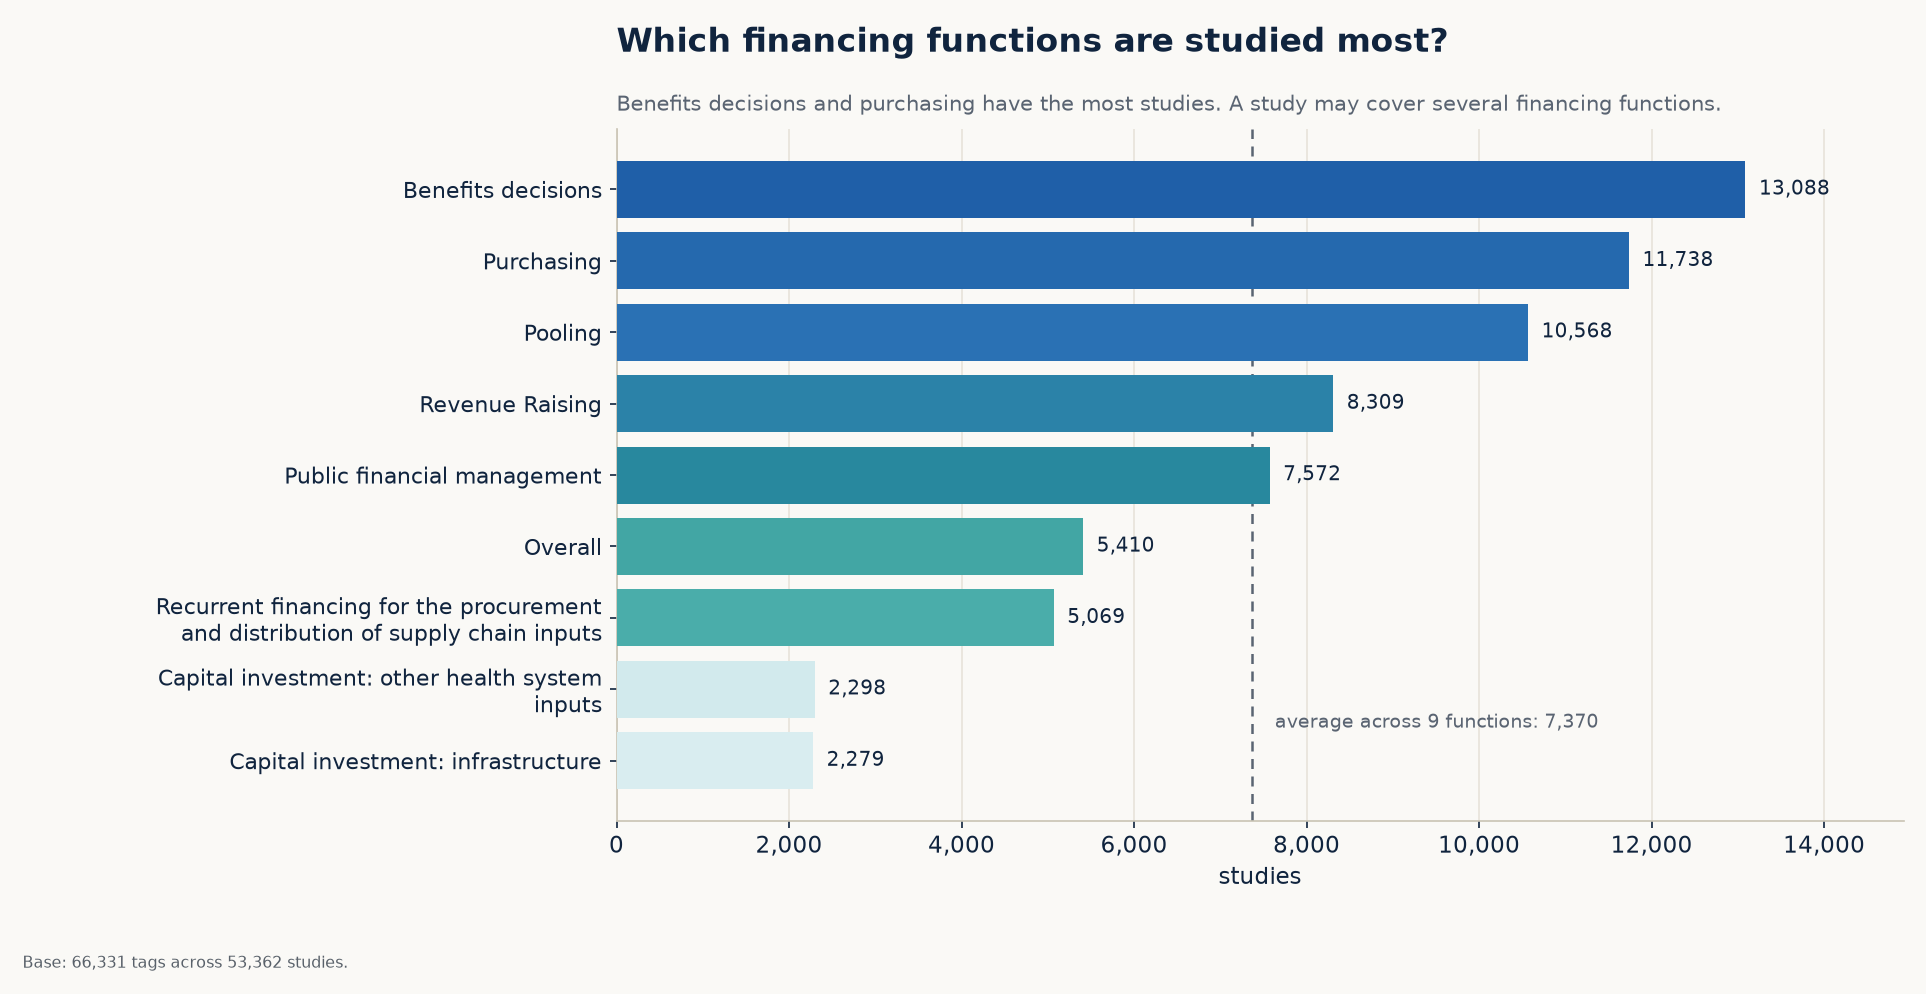
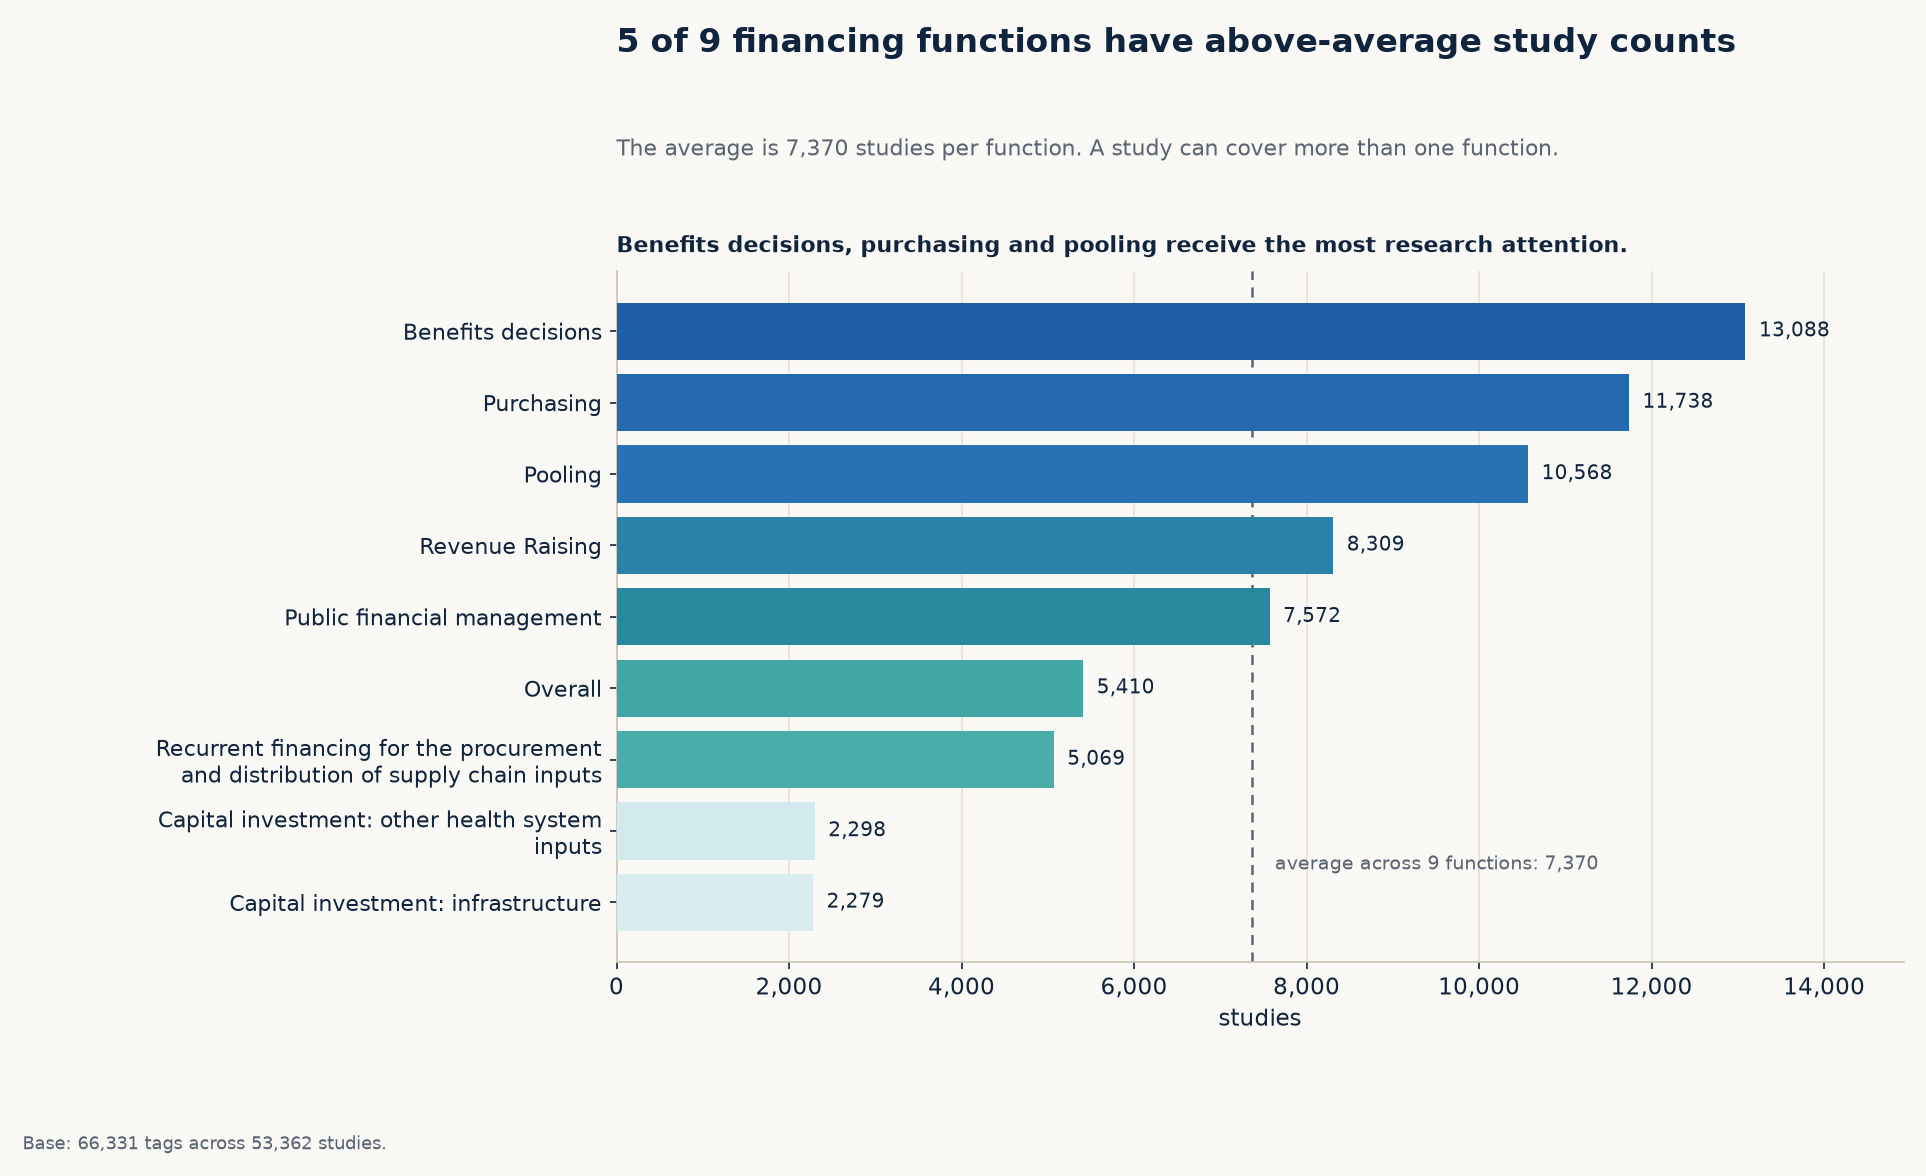
Clarify above-average financing function study counts

diff --git a/docs/dex_hff/build_figures_v2_4.py b/docs/dex_hff/build_figures_v2_4.py
@@ -787,10 +787,9 @@ ax.annotate(f"average across {len(func_counts)} functions: {mean_func:,.0f}",
             xy=(mean_func, 0.4), xytext=(mean_func + max(fvalues) * 0.02, 0.4),
             fontsize=9, color=SUBHEAD_COLOR, ha="left", va="bottom")
 n_above = sum(1 for v in fvalues if v >= mean_func)
-set_headline(ax, f"{n_above} of {len(func_counts)} financing functions punch above the per-function average",
-             "Studies by financing function — a study can carry more than one.",
-             f"{top_func} leads at {top_func_n:,} studies, {round(top_func_n / second_func_n, 1)}× "
-             f"{second_func}'s {second_func_n:,}; capital-investment financing trails furthest behind.",
+set_headline(ax, f"{n_above} of {len(func_counts)} financing functions have above-average study counts",
+             f"The average is {mean_func:,.0f} studies per function. A study can cover more than one function.",
+             "Benefits decisions, purchasing and pooling receive the most research attention.",
              "fig_function_bar.png")
 ax.set_xlabel("studies")
 ax.tick_params(axis="y", labelsize=10.5)
